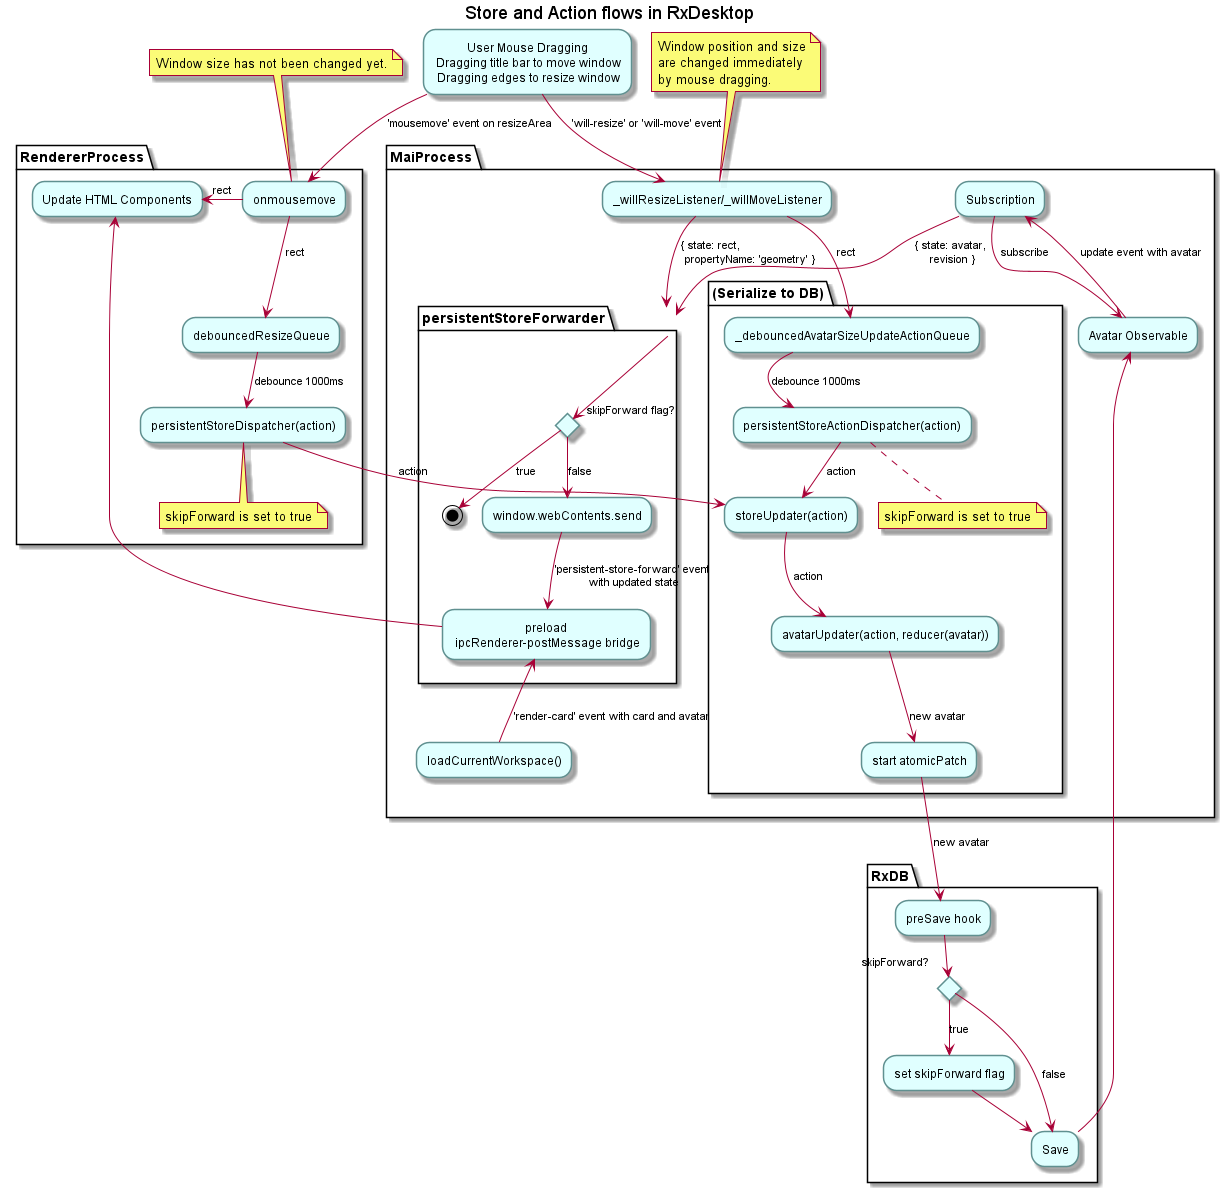
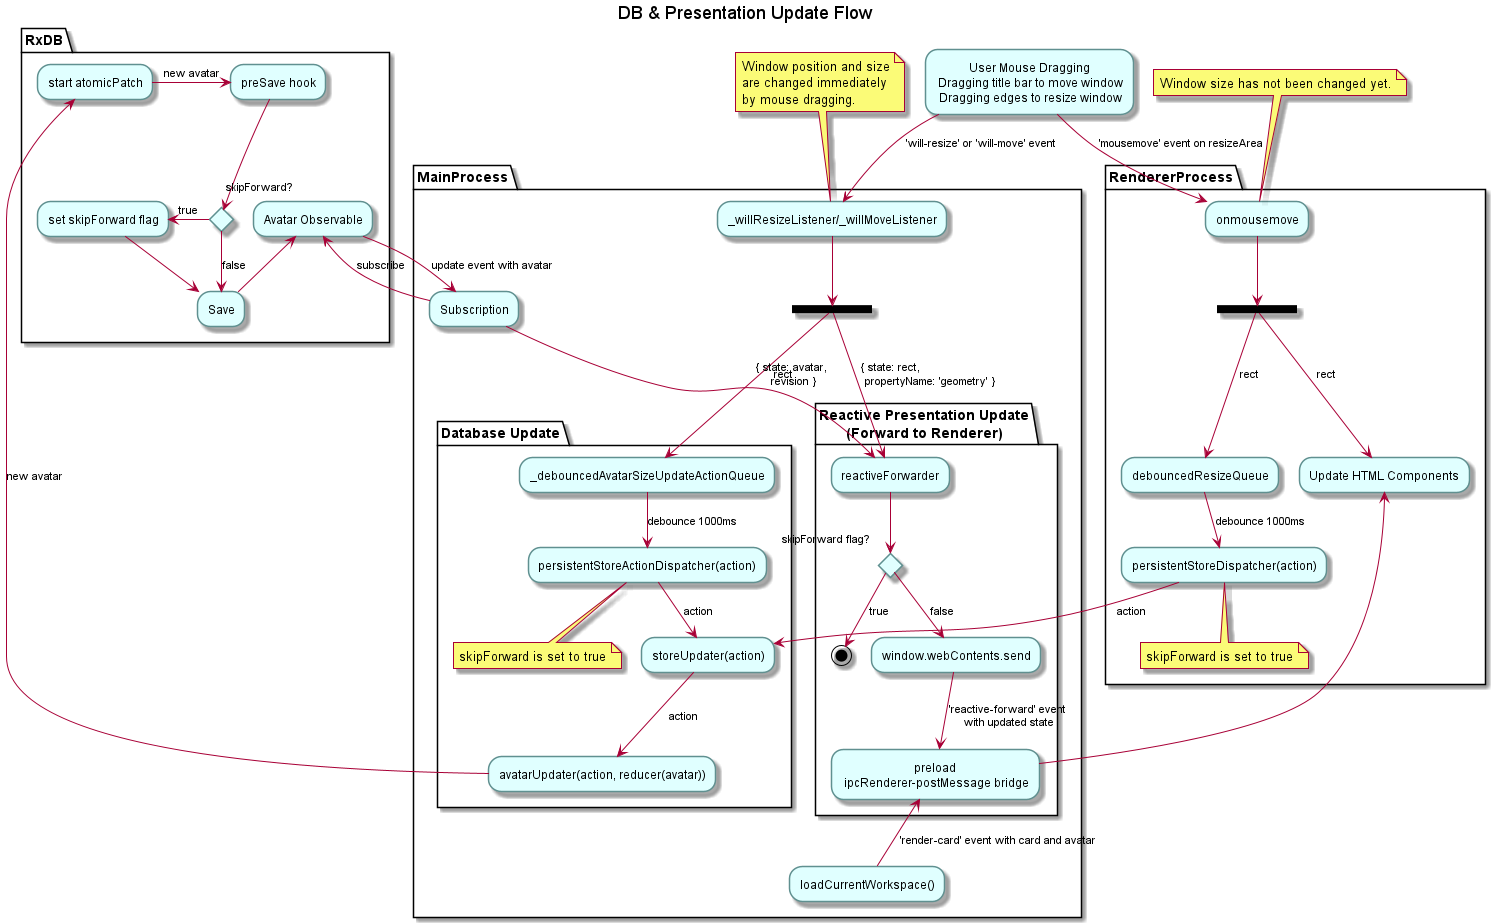
refactor: Clarify the name of forwarder

diff --git a/src/modules_main/avatar_window.ts b/src/modules_main/avatar_window.ts
@@ -495,7 +495,7 @@ export class AvatarWindow {
   };
 
   // Forward changes on persistent store to Renderer process
-  public persistentStoreForwarder = (props: {
+  public reactiveForwarder = (props: {
     propertyName?: keyof Avatar;
     state: any;
     revision?: string;
@@ -507,23 +507,19 @@ export class AvatarWindow {
       return;
     }
     console.debug(`Forward: ${props.propertyName || 'all properties'} to ${this.url}`);
-    this.window.webContents.send(
-      'persistent-store-forward',
-      props.propertyName,
-      props.state
-    );
+    this.window.webContents.send('reactive-forward', props.propertyName, props.state);
   };
 
   private _willMoveListener = (event: Electron.Event, rect: Electron.Rectangle) => {
     // Update x and y
     this._debouncedAvatarPositionUpdateActionQueue.next(rect);
-    this.persistentStoreForwarder({ propertyName: 'geometry', state: rect });
+    this.reactiveForwarder({ propertyName: 'geometry', state: rect });
   };
 
   private _willResizeListener = (event: Electron.Event, rect: Electron.Rectangle) => {
     // Update x, y, width, height
     this._debouncedAvatarSizeUpdateActionQueue.next(rect);
-    this.persistentStoreForwarder({ propertyName: 'geometry', state: rect });
+    this.reactiveForwarder({ propertyName: 'geometry', state: rect });
   };
 
   private _closedListener = () => {

diff --git a/src/modules_main/store.ts b/src/modules_main/store.ts
@@ -152,7 +152,7 @@ export const openDB = async () => {
      */
     rxdb.avatar.update$.subscribe(changeEvent => {
       const avatar: Avatar = (changeEvent.documentData as unknown) as Avatar;
-      avatarWindows.get(avatar.url)!.persistentStoreForwarder({
+      avatarWindows.get(avatar.url)!.reactiveForwarder({
         state: avatar,
         revision: changeEvent.previousData._rev,
       });
@@ -191,7 +191,7 @@ export const prepareDbSync = () => {
     // insert, update, delete
     if (changeEvent.operation === 'INSERT') {
       const payload = changeEvent.documentData;
-      mainWindow.webContents.send('persistent-store-forward', payload);
+      mainWindow.webContents.send('reactive-forward', payload);
     }
     else if (changeEvent.operation === 'DELETE') {
       mainWindow.webContents.send(

diff --git a/src/modules_main/preload.ts b/src/modules_main/preload.ts
@@ -128,6 +128,6 @@ ipcRenderer.on('zoom-out', () => window.postMessage({ command: 'zoom-out' }, 'fi
 /**
  * Store Actions
  */
-ipcRenderer.on('persistent-store-forward', (event, propertyName, doc) => {
-  window.postMessage({ command: 'persistent-store-forward', propertyName, doc }, 'file://');
+ipcRenderer.on('reactive-forward', (event, propertyName, doc) => {
+  window.postMessage({ command: 'reactive-forward', propertyName, doc }, 'file://');
 });

diff --git a/src/modules_renderer/card_renderer.ts b/src/modules_renderer/card_renderer.ts
@@ -356,7 +356,7 @@ const dispatch = (event: MessageEvent) => {
     event.source !== window ||
     event.data.command === undefined ||
     event.data.doc === undefined ||
-    event.data.command !== 'persistent-store-forward'
+    event.data.command !== 'reactive-forward'
   )
     return;
 
